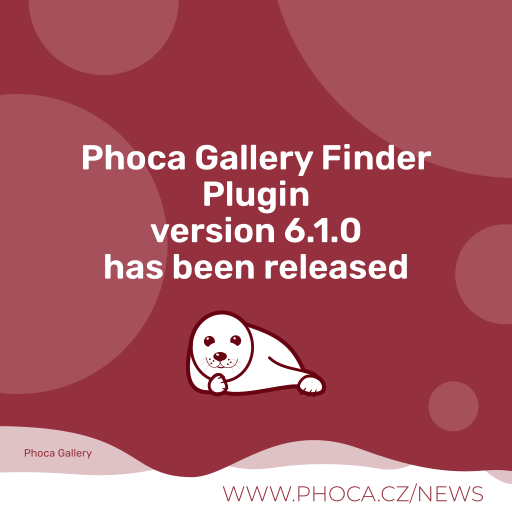
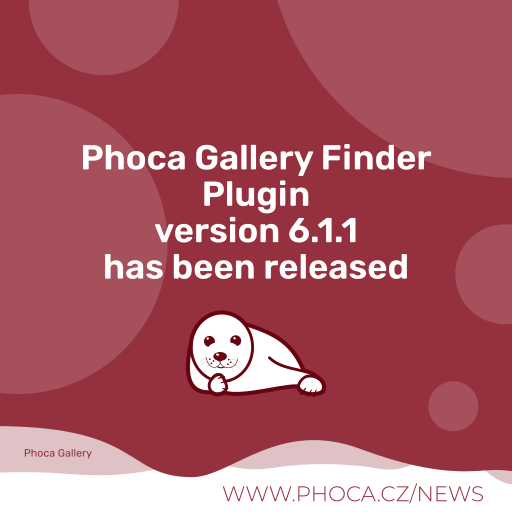
6.1.1

Changed region(s): [[0.2812, 0.4062, 0.7188, 0.5]]

diff --git a/README.MD b/README.MD
@@ -20,79 +20,68 @@ Our compliance with the principles of free and open-source software is establish
 
 *This repository is a shared community resource dedicated to the global open-source ecosystem.*
 
+### Community Feedback & Contributions
 
-## Project page
+We welcome your feedback and active involvement. You can join the development and follow the progress on public, independent GitHub pages at [https://github.com/PhocaCz](https://github.com/PhocaCz).
+Any feedback, bug reports, feature suggestions, or code improvements can be submitted transparently via **GitHub Issues** or **Pull Requests** within the respective repository.
 
-[Phoca Gallery Finder Plugin](https://www.phoca.cz/phoca-gallery-finder-plugin)
+### Accompanying External Resources
 
-[Phoca Gallery Info Page](https://www.phoca.cz/project/phocagallery-joomla-gallery)
+If you need additional information beyond this GitHub repository, further documentation, updates, and community channels are available on the following external websites:
 
+#### External Project Information
 
-
-## Documentation
-
-[Documentation](https://www.phoca.cz/documentation/category/106-phoca-gallery-finder-plugin)
-
-
-
-
-
-## Support
-
-[Phoca Forum](https://www.phoca.cz/forum)
-
-:bell: [Phoca Forum RSS](https://www.phoca.cz/forum/app.php/feed)
+- [Phoca Gallery Finder Plugin](https://www.phoca.cz/phoca-gallery-finder-plugin)
+- [Phoca Gallery Info Page](https://www.phoca.cz/project/phocagallery-joomla-gallery)
+- [Project is listed on Joomla Extensions Directory](https://extensions.joomla.org/)
+- [Project is listed on Phoca download directory](https://www.phoca.cz/download)
 
 
+#### External Documentation
 
-## News
-
-[Phoca News](https://www.phoca.cz/news)
-
-:bell: [Phoca News RSS](https://www.phoca.cz/news?format=feed&type=rss)
-
-:bell: [Phoca Latest Releases RSS](https://www.phoca.cz/download/feed/111?format=feed&type=rss)
+- [Documentation](https://www.phoca.cz/documentation/category/106-phoca-gallery-finder-plugin)
 
 
+#### External Community Support
 
-## Demo
+- [Phoca Forum](https://www.phoca.cz/forum)
+- [Joomla Forum](https://forum.joomla.org/)
+- [Joomlaportal.cz Forum - Czech](https://www.joomlaportal.cz/forum)
+- [Joomla.de Supportforum - German](https://forum.joomla.de/)
+- :bell: [Phoca Forum RSS](https://www.phoca.cz/forum/app.php/feed)
 
-[Joomla! 2.5 Demo](https://www.phoca.cz/joomlademo/)
+
+#### External News & Feeds
+
+- [Phoca News](https://www.phoca.cz/news)
+- [Joomlaportal.cz News](https://www.joomlaportal.cz/novinky)
+- :bell: [Phoca News RSS](https://www.phoca.cz/news?format=feed&type=rss)
+- :bell: [Phoca Latest Releases RSS](https://www.phoca.cz/download/feed/111?format=feed&type=rss)
 
 
+#### Demo
 
-## Version (Joomla! 3.x)
+- [Joomla! 2.5 Demo](https://www.phoca.cz/joomlademo/)
 
+### Version (Joomla! 3.x - no longer supported)
 4.4.0
-
-## Version (Joomla! 4.x)
-
-4.5.3
-
-## Version (Joomla! 5.x)
-
+### Version (Joomla! 4.x - no longer supported)
+4.5.2
+### Version (Joomla! 5.x - no longer supported)
 5.0.3
+### Version (Joomla! 6.x)
+6.1.1
 
-
-
-## License
+### License
 
 GNU/GPL
 
-
-
 This project is open source project - feel free to contribute! Thank you.
 
-
-
-## Social Media
+### Social Media
 
 - [Phoca on Facebook](https://www.facebook.com/Phoca.cz)
-
 - [Phoca on X (Twitter)](https://twitter.com/PhocaCz)
-
 - [Phoca on YouTube](https://www.youtube.com/user/phocavideos)
-
 - [Phoca on GitHub](https://github.com/PhocaCz)
-
 - [Phoca on Reddit](https://www.reddit.com/user/PhocaCz)

diff --git a/FOSS.md b/FOSS.md
@@ -1,0 +1,13 @@
+Free and Open Source Software (FOSS) Declaration
+
+This project is developed, distributed, and maintained strictly as **Free and Open Source Software (FOSS)**. It is provided entirely outside the course of any commercial activity as an independent public resource.
+
+Our compliance with the principles of free and open-source software is established by the following structural and operational guidelines:
+
+* **Strictly Non-Commercial & Public Good:** This software is provided 100% free of charge. No commercial entities control or fund this repository, and there are no commercial monetization models, paid subscriptions, or premium paywalls associated with this codebase.
+* **Independent Volunteer Contributions:** The development, maintenance, and testing of this extension are driven entirely by independent, voluntary contributions from the global community.
+* **No Commercial Technical Support:** Technical support is not provided as a paid commercial service by the maintainers of this repository. Community assistance is available on a voluntary, non-binding basis via public forums.
+* **No Proprietary Lock-in:** The software is licensed under the copyleft GNU General Public License (GPL). You have absolute freedom to run, study, share, modify, and redistribute the code.
+* **Decentralized Infrastructure:** This codebase is hosted in a public, transparent repository on GitHub to foster open collaborative development and public peer review, ensuring safety and quality through community vigilance.
+
+*This repository is a shared community resource dedicated to the global open-source ecosystem.*
